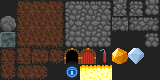
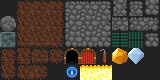
Bugfixes, gate tile placeholder graphics.

Changed region(s): [[0.6875, 0.4, 0.9062, 0.6]]

diff --git a/src/ghost.c b/src/ghost.c
@@ -105,10 +105,10 @@ void ghost_update(const unsigned char index) {
       entities_set_state(index, state);
     }
 
-    entities_tile_move(index, dir_x, dir_y, TILE_MOVE_NO_EVALUATE);
+    entities_tile_move(index, dir_x, dir_y, 0);
   }
 
-  if (!RANDOM && !RANDOM) {
+  if (!RANDOM && RANDOM & 3) {
     sfx_play_pan(SFX_LVL_GHOST, 0x04, tile_x, tile_y);
   }
 

diff --git a/src/bat.c b/src/bat.c
@@ -66,8 +66,8 @@ void bat_update(const unsigned char index) {
     entities.flags[index] = flags;
 
   } else {
-    entities_tile_move(index, dir_x, dir_y, TILE_MOVE_NO_EVALUATE);
-    if (!RANDOM && !RANDOM) {
+    entities_tile_move(index, dir_x, dir_y, 0);
+    if (!RANDOM && RANDOM & 3) {
       sfx_play_pan(SFX_LVL_BAT, 0x04, tile_x, tile_y);
     }
   }

diff --git a/src/tile_names.h b/src/tile_names.h
@@ -29,6 +29,8 @@
 #define T_LVL_DIRT_BOTTOMRIGHT 23
 #define T_LVL_STONE_BOTTOMRIGHT 26
 #define T_LVL_STONE_BOTTOM 25
+#define T_LVL_GATEH 27
+#define T_LVL_GATEV 28
 #define T_LVL_STONE_MID 29
 #define T_LVL_DIRT_CAPTOP 30
 #define T_LVL_DIRT_VERTICAL 31
